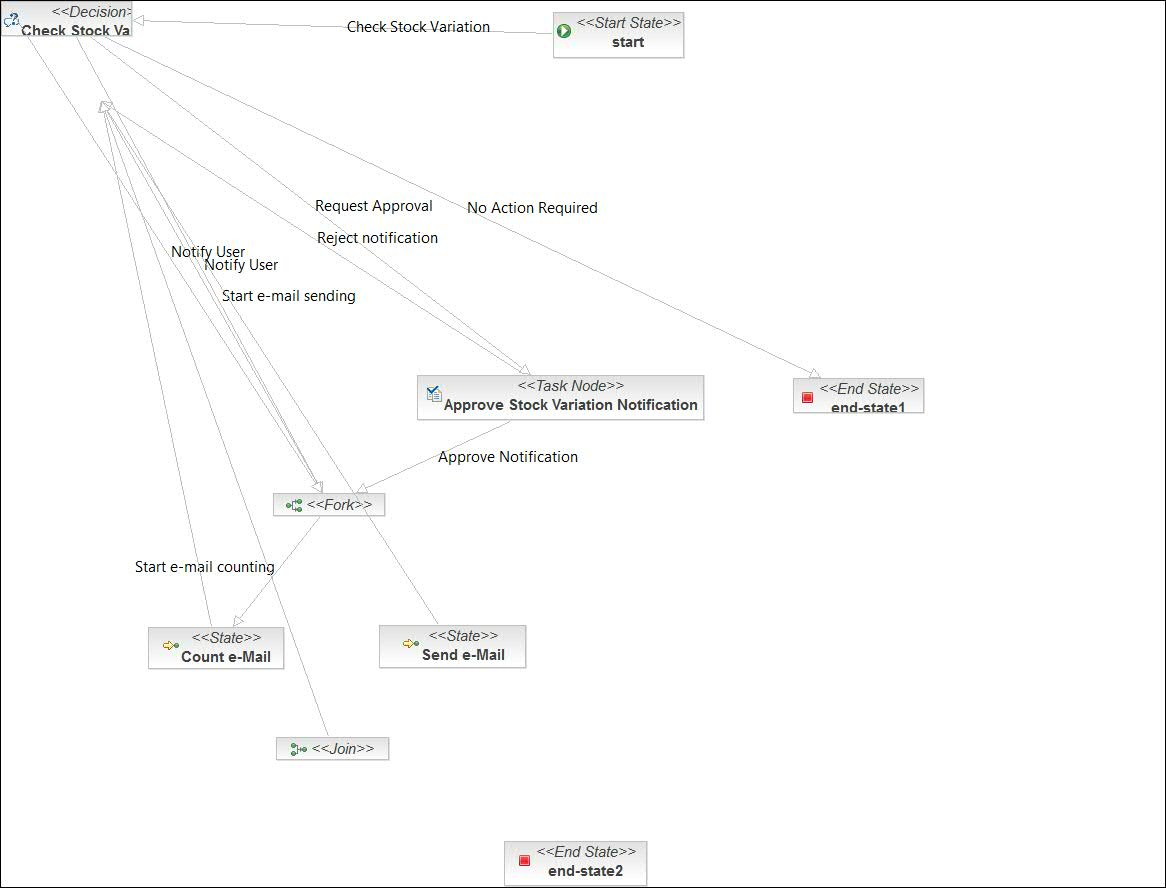
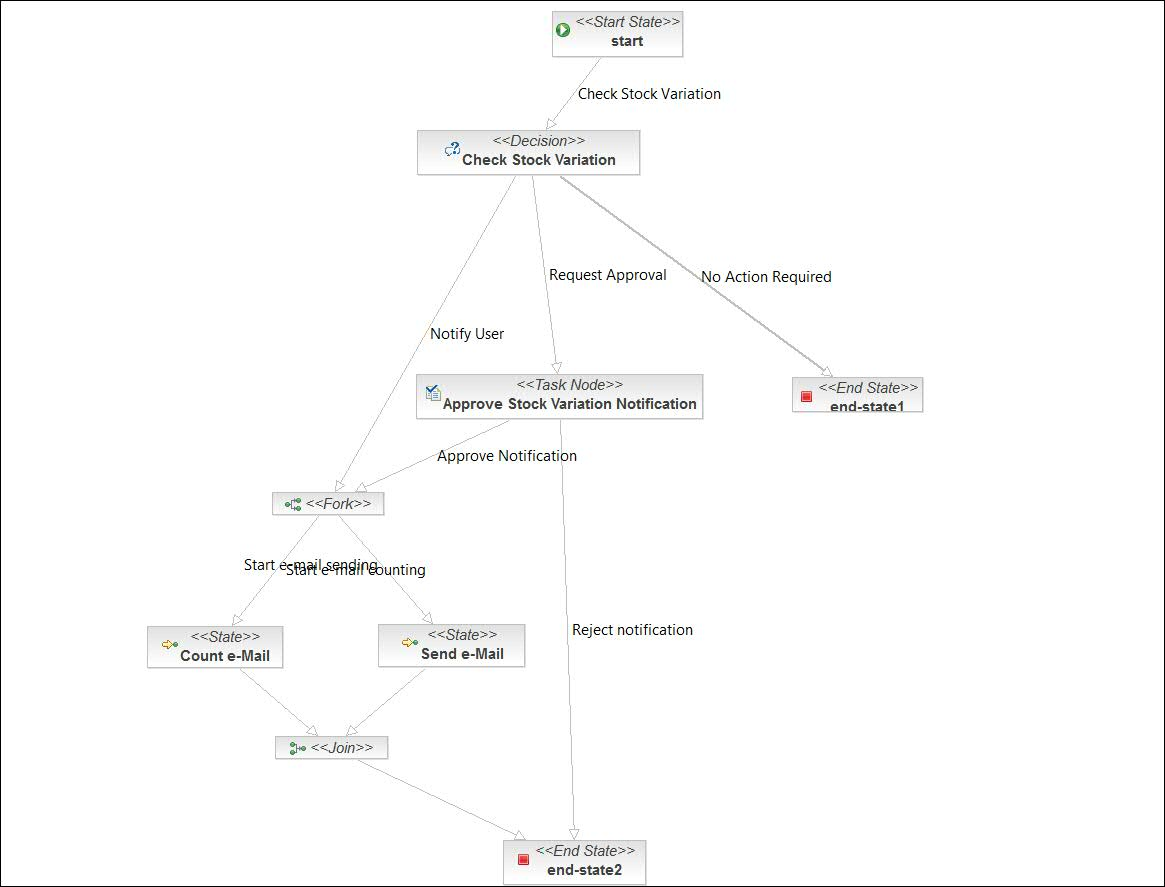
Change: Updated with stock variation decision code (incomplete)

diff --git a/Project3/JBPMServices/src/jbpm/eai/msejdf/jbpm/actions/CheckStockVariationDecisionHandler.java b/Project3/JBPMServices/src/jbpm/eai/msejdf/jbpm/actions/CheckStockVariationDecisionHandler.java
@@ -1,0 +1,38 @@
+package eai.msejdf.jbpm.actions;
+
+import org.jbpm.graph.exe.ExecutionContext;
+import org.jbpm.graph.node.DecisionHandler;
+
+public class CheckStockVariationDecisionHandler implements DecisionHandler  {
+	public static final String APPROVE_NOTIFICATION = "Approve Stock Variation Notification";
+	public static final String NO_ACTION_REQUIRED = "No Action Required";
+	public static final String NOTIFY_USER = "Notify User";
+	
+	private static final float VARIATION_THRESHOLD_APPROVAL_REQURIED_LOW_INCL = (float)0.5; /* lower threshold (inclusive) */
+	private static final float VARIATION_THRESHOLD_APPROVAL_REQURIED_HIGH_INCL = (float)1; /* upper threshold (inclusive) */
+	
+	private static final long serialVersionUID = 1L;
+
+	public String decide(ExecutionContext executionContext) throws Exception 
+	{
+		String message = executionContext.getContextInstance().getVariable("msgBody").toString();
+		
+		//TODO: Extract variation from the message (or variable carrying it) and remove this
+		String variationStr = message;
+
+		float variation = Math.abs(Float.parseFloat(variationStr));
+		
+		if (variation < CheckStockVariationDecisionHandler.VARIATION_THRESHOLD_APPROVAL_REQURIED_LOW_INCL)
+		{
+			/* No action required */ 
+			return CheckStockVariationDecisionHandler.NO_ACTION_REQUIRED;
+		}
+		if (variation <= CheckStockVariationDecisionHandler.VARIATION_THRESHOLD_APPROVAL_REQURIED_HIGH_INCL)
+		{
+			/* User approval required */
+			return CheckStockVariationDecisionHandler.APPROVE_NOTIFICATION;
+		}
+		/* Automatic notification */
+		return CheckStockVariationDecisionHandler.NOTIFY_USER;
+	}
+}
